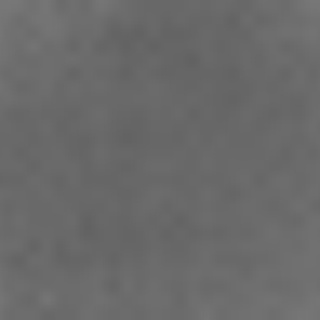
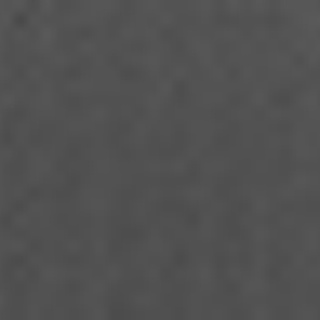
Fixes

diff --git a/image_collection_test.py b/image_collection_test.py
@@ -16,7 +16,7 @@ INTERPOLATE = 10
 # MUST set I2C freq to 1MHz in /boot/config.txt
 i2c = busio.I2C(board.SCL, board.SDA)
 # low range of the sensor (this will be black on the screen)
-MINTEMP =20.0
+MINTEMP =22.0
 # high range of the sensor (this will be white on the screen)
 MAXTEMP = 36.0
 
@@ -32,27 +32,29 @@ def main():
     print("Refresh rate: ", pow(2, (mlx.refresh_rate - 1)), "Hz")
 
     for poskusi in range (0,600):
-         # capture thermal frame
-         frame = [0] * 768
-         while True:
-             try:
-                 mlx.getFrame(frame)
-                 break
-             except Exception:
-                 #in case we get a traceback error, we just retry the connection and go again, no biggie
-                 print(traceback.format_exc())
-                 mlx = adafruit_mlx90640.MLX90640(i2c)
-                 mlx.refresh_rate = adafruit_mlx90640.RefreshRate.REFRESH_2_HZ
-                 continue
+        # capture thermal frame
+        frame = [0] * 768
+        while True:
+         try:
+             mlx.getFrame(frame)
+             break
+         except Exception:
+             #in case we get a traceback error, we just retry the connection and go again, no biggie
+             print(traceback.format_exc())
+             mlx = adafruit_mlx90640.MLX90640(i2c)
+             mlx.refresh_rate = adafruit_mlx90640.RefreshRate.REFRESH_2_HZ
+             continue
 
         #Limit the temp range between MINTEMP and MAXTEMP for higher accuracy
         pixels = [0] * 1024
-        for i in range(0,1024):
-            if i<128 || i>895:
+        for i in range(0,1023):
+            if i<128 or i>895:
                 pixels[i]=MINTEMP
-            else frame[i] < MINTEMP:
+            elif frame[i-128] < MINTEMP:
                 pixels[i]=MINTEMP
-            pixels[i] = int((pixel-MINTEMP)*(255/(MAXTEMP-MINTEMP)))
+            else:
+                pixels[i]=frame[i-128]
+            pixels[i] = int((pixels[i]-MINTEMP)*(255/(MAXTEMP-MINTEMP)))
 
         #use PIL library to interpolate by a factor of INTERPOLATE -> increasing resolution to 320x240 and smoothing out the mosaicing effect
         img2 = Image.new("L", (32, 32)) #the frame should actually be 32x24, but our Object Detection on Edge Impulse is limted to squares
@@ -61,10 +63,10 @@ def main():
         img= np.array(img2) #since CV uses numpy arrays for image manipulation, we convert our PIL image to an array
 
         #save images to disk
-        name="collection_"+str(poskusi)
+        name="/home/pi/Desktop/RTLS_FindMyProfessor/testing/pics/collection_"+str(poskusi)+".png"
         cv2.imwrite(name, img)
         print("Saved image ", poskusi)
 
 
 if __name__ == "__main__":
-main()
+    main()
